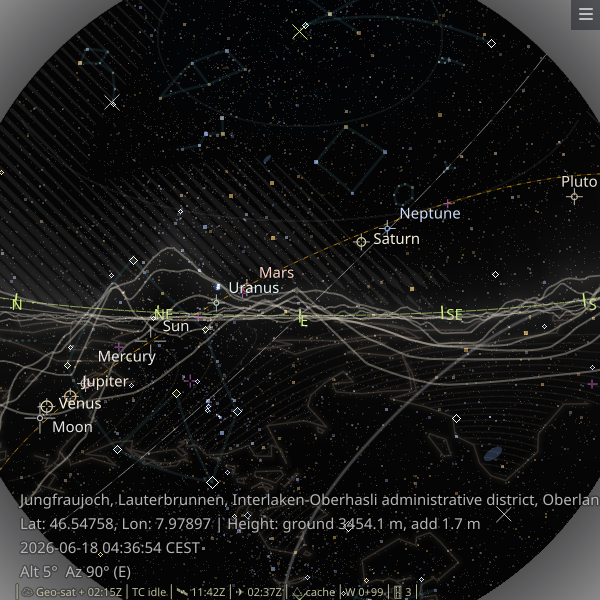
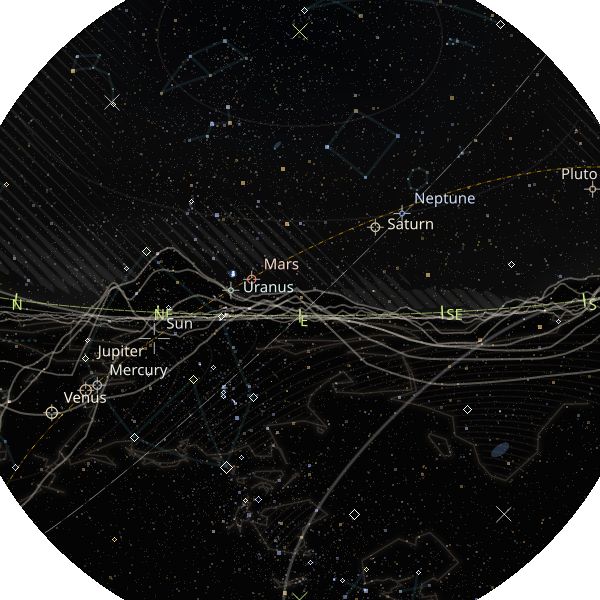
feat: redesign jellybean cloud rendering with circles, chains, and nonlinear quantization
- Replace line-segment rendering with circle + chain-connection approach
  on a square 45-degree grid (delta_u = delta_v)
- 8-level quantization with diameters 0/4/8/12/16/20/24/28 px (scaled)
- Nonlinear thresholds (1.4^-i) suppress low-amount noise
- Percentile normalization (12%/92%) matches width-style approach
- Diameter scaled by 1/sqrt(2) for perpendicular chain spacing
- Additional 5% reduction for visible inter-chain gap
- Update design docs and session notes

diff --git a/src/zstarview/gui/composite.py b/src/zstarview/gui/composite.py
@@ -1236,12 +1236,14 @@ def _render_jellybean_cloud_rgba_from_altaz_grid(
     width_factor: float = 1.0,
     density_reference_size: tuple[int, int] | None = None,
 ) -> np.ndarray:
-    """Render quantized jellybean cloud segments from a `CloudAltAzGrid`.
+    """Render quantized jellybean cloud circles/chains from a `CloudAltAzGrid`.
 
-    Cloud amount is linearly quantized into 4 levels (0/1/3/5) on a
-    screen-fixed 2D grid aligned with the 45-degree diagonal (u = x - y).
-    Each grid cell with level > 0 is drawn as a QPainter RoundCap line
-    segment whose width equals the quantized level in pixels.
+    Cloud amount is linearly quantized into 8 levels (0/4/8/12/16/20/24/28 px, scaled by delta/30/√2) on a
+    screen-fixed square 2D grid rotated 45 degrees (u = x - y, v = x + y).
+    Each grid cell with level > 0 is drawn as a circle whose diameter
+    equals the quantized level.  Consecutive cells with the same level
+    along the bottom-right diagonal (v direction) are connected into a
+    thick RoundCap line segment (jellybean).
     """
     w = max(1, int(width))
     h = max(1, int(height))
@@ -1255,22 +1257,34 @@ def _render_jellybean_cloud_rgba_from_altaz_grid(
         cy = float(geometry.center[1])
         rr = max(1.0, float(geometry.radius))
 
-    # Grid spacing
+    # Grid spacing — square cells (delta_u == delta_v)
     ref_w, ref_h = (
         (w, h)
         if density_reference_size is None
         else (max(1, int(density_reference_size[0])), max(1, int(density_reference_size[1])))
     )
     ref_diameter = max(1.0, float(min(ref_w, ref_h)))
-    delta_v = max(1.0, ref_diameter / max(1, int(target_stripes)))
-    delta_u = 2.5 * delta_v
+    delta = max(1.0, ref_diameter / max(1, int(target_stripes)))
+    delta_u = delta
+    delta_v = delta
 
-    # Line widths proportional to grid spacing delta_v (ratios 1:3:5)
-    # max = delta_v * 0.65 (ratios 0:1:3:5); gap 0.85*lw; delta_u=2.5*delta_v
+    # Circle diameters per quantized level: 0, 4, 8, 12, 16, 20, 24, 28
+    # proportional to perpendicular chain spacing (delta / sqrt(2)),
+    # with an additional 5% reduction for visible gap between chains.
+    # At reference delta=30 px, perpendicular spacing ≈ 21.2 px,
+    # max diameter ≈ 18.8 px, leaving a ~2.4 px gap.
     wf = max(0.01, float(width_factor))
-    base = delta_v * wf
-    level_widths = (0.0, base * 0.13, base * 0.39, base * 0.65)
-    min_gap_u = delta_u * 0.06
+    diam_scale = delta / 30.0 * wf / math.sqrt(2.0) * 0.95
+    level_diameters = (
+        0.0,
+        4.0 * diam_scale,
+        8.0 * diam_scale,
+        12.0 * diam_scale,
+        16.0 * diam_scale,
+        20.0 * diam_scale,
+        24.0 * diam_scale,
+        28.0 * diam_scale,
+    )
 
     # Disc geometry
     edge_fov = float(projection.edge_fov_deg)
@@ -1284,8 +1298,8 @@ def _render_jellybean_cloud_rgba_from_altaz_grid(
     v_disc = cx + cy
     disc_radius_uv = disc_radius * math.sqrt(2.0)
 
-    # Margin for line width extending beyond cell center
-    margin = max(level_widths) * 0.5 + 2.0
+    # Margin for circle radius extending beyond cell center
+    margin = max(level_diameters) * 0.5 + 2.0
 
     # Grid index ranges clipped to viewport extent
     u_min = max(-(h - 1), u_disc - disc_radius_uv - margin)
@@ -1301,14 +1315,14 @@ def _render_jellybean_cloud_rgba_from_altaz_grid(
     # Collect cell centers inside the disc
     cell_xs: list[float] = []
     cell_ys: list[float] = []
-    cell_meta: list[tuple[int, int, float]] = []  # (i, j, v_line)
+    cell_meta: list[tuple[int, int]] = []  # (i, j)
 
-    for j in range(j_min, j_max + 1):
-        v_line = j * delta_v
-        for i in range(i_min, i_max + 1):
-            u_center = (i + 0.5) * delta_u
-            x = (u_center + v_line) * 0.5
-            y = (v_line - u_center) * 0.5
+    for i in range(i_min, i_max + 1):
+        u_line = i * delta_u
+        for j in range(j_min, j_max + 1):
+            v_center = (j + 0.5) * delta_v
+            x = (u_line + v_center) * 0.5
+            y = (v_center - u_line) * 0.5
 
             dx = x - cx
             dy = y - cy
@@ -1317,7 +1331,7 @@ def _render_jellybean_cloud_rgba_from_altaz_grid(
 
             cell_xs.append(x)
             cell_ys.append(y)
-            cell_meta.append((i, j, v_line))
+            cell_meta.append((i, j))
 
     if not cell_xs:
         out = np.zeros((h, w, 4), dtype=np.uint8)
@@ -1334,40 +1348,115 @@ def _render_jellybean_cloud_rgba_from_altaz_grid(
     # Batch sample cloud amount
     amounts = _sample_altaz_grid_amount(grid, alts, azs)
 
-    # Quantization thresholds (linear, 4 equal intervals)
-    # level 0: [0.00, 0.25), 1: [0.25, 0.50), 2: [0.50, 0.75), 3: [0.75, 1.00]
-    t1, t2, t3 = 0.25, 0.50, 0.75
+    # Percentile normalization (matching width-style approach).
+    # Collect non-zero amounts from cells inside the disc, compute
+    # 12%ile / 92%ile, then normalize so thresholds adapt to the
+    # actual data range instead of using absolute values.
+    _raw = np.asarray(amounts, dtype=np.float64)
+    _inside_mask = inside & (_raw > 0.03)
+    if np.any(_inside_mask):
+        _nonzero = _raw[_inside_mask]
+        _lo = float(np.percentile(_nonzero, 12.0))
+        _hi = float(np.percentile(_nonzero, 92.0))
+        if _hi <= _lo + 1e-6:
+            _lo = float(_nonzero.min())
+            _hi = float(_nonzero.max())
+        if _hi > _lo + 1e-6:
+            _span = _hi - _lo
+            _normalized = np.clip((_raw - _lo) / _span, 0.0, 1.0)
+        else:
+            _normalized = np.clip(_raw, 0.0, 1.0)
+    else:
+        _normalized = np.clip(_raw, 0.0, 1.0)
 
-    # Build segment list
-    segments: list[tuple[float, float, float, float, float]] = []
+    # Quantization thresholds: nonlinear, powers of 1.4 (1.4 ** -i).
+    # Suppresses low-amount noise while spreading high amounts across
+    # more levels.
+    # level 0: [0.000, 0.095), 1: [0.095, 0.133), 2: [0.133, 0.186),
+    #       3: [0.186, 0.260), 4: [0.260, 0.364), 5: [0.364, 0.510),
+    #       6: [0.510, 0.714), 7: [0.714, 1.000]
+    t0 = 1.4 ** -7
+    t1 = 1.4 ** -6
+    t2 = 1.4 ** -5
+    t3 = 1.4 ** -4
+    t4 = 1.4 ** -3
+    t5 = 1.4 ** -2
+    t6 = 1.4 ** -1
 
+    # Build cell-level map: (i, j) -> level (0-7)
+    cell_level: dict[tuple[int, int], int] = {}
     for k in range(len(cell_xs)):
         if not inside[k]:
             continue
-        amount = float(amounts[k])
-        if amount < t1:
-            continue
-        elif amount < t2:
+        amount = float(_normalized[k])
+        if amount < t0:
+            level = 0
+        elif amount < t1:
             level = 1
-        elif amount < t3:
+        elif amount < t2:
             level = 2
-        else:
+        elif amount < t3:
             level = 3
+        elif amount < t4:
+            level = 4
+        elif amount < t5:
+            level = 5
+        elif amount < t6:
+            level = 6
+        else:
+            level = 7
+        if level > 0:
+            cell_level[cell_meta[k]] = level
 
-        lw = level_widths[level]
-        if lw < 0.5:
-            continue
+    if not cell_level:
+        out = np.zeros((h, w, 4), dtype=np.uint8)
+        return out
 
-        i, j, v_line = cell_meta[k]
-        u_start = i * delta_u + max(lw * 0.85, min_gap_u)
-        u_end = (i + 1) * delta_u - max(lw * 0.85, min_gap_u)
+    # Extract chains along bottom-right diagonal (i, j+1 direction)
+    processed: set[tuple[int, int]] = set()
+    circles: list[tuple[float, float, float]] = []  # (x, y, diameter)
+    segments: list[tuple[float, float, float, float, float]] = []  # (x1, y1, x2, y2, width)
 
-        x1 = (u_start + v_line) * 0.5
-        y1 = (v_line - u_start) * 0.5
-        x2 = (u_end + v_line) * 0.5
-        y2 = (v_line - u_end) * 0.5
+    for j in range(j_min, j_max + 1):
+        for i in range(i_min, i_max + 1):
+            key = (i, j)
+            if key in processed or key not in cell_level:
+                continue
+            level = cell_level[key]
+            diam = level_diameters[level]
 
-        segments.append((x1, y1, x2, y2, lw))
+            # Follow chain along (i, j+1), (i, j+2), ...
+            chain: list[tuple[int, int]] = [key]
+            nj = j + 1
+            while nj <= j_max:
+                nkey = (i, nj)
+                if cell_level.get(nkey) == level:
+                    chain.append(nkey)
+                    nj += 1
+                else:
+                    break
+
+            # Mark all chain cells as processed
+            for ck in chain:
+                processed.add(ck)
+
+            if len(chain) == 1:
+                # Isolated cell: draw circle at cell center
+                x = (i * delta_u + (j + 0.5) * delta_v) * 0.5
+                y = ((j + 0.5) * delta_v - i * delta_u) * 0.5
+                circles.append((x, y, diam))
+            else:
+                # Chain: draw line segment from first to last cell center
+                j_first = chain[0][1]
+                j_last = chain[-1][1]
+                u_line = i * delta_u
+                v_first = (j_first + 0.5) * delta_v
+                v_last = (j_last + 0.5) * delta_v
+                x1 = (u_line + v_first) * 0.5
+                y1 = (v_first - u_line) * 0.5
+                x2 = (u_line + v_last) * 0.5
+                y2 = (v_last - u_line) * 0.5
+                segments.append((x1, y1, x2, y2, diam))
 
     # Render with QPainter
     image = QImage(w, h, QImage.Format_ARGB32_Premultiplied)
@@ -1382,6 +1471,14 @@ def _render_jellybean_cloud_rgba_from_altaz_grid(
     alpha = int(np.clip(hatch_cfg.strength, 0, 255))
     base_color = QColor(255, 255, 255, alpha)
 
+    # Draw circles (isolated cells) — drawPoint with RoundCap pen produces
+    # a filled circle whose diameter equals the pen width.
+    for x, y, diam in circles:
+        pen = QPen(base_color, diam, Qt.PenStyle.SolidLine, Qt.PenCapStyle.RoundCap, Qt.PenJoinStyle.RoundJoin)
+        painter.setPen(pen)
+        painter.drawPoint(QPointF(x, y))
+
+    # Draw segments (chains) — RoundCap ends match the circle shape.
     for x1, y1, x2, y2, lw in segments:
         pen = QPen(base_color, lw, Qt.PenStyle.SolidLine, Qt.PenCapStyle.RoundCap, Qt.PenJoinStyle.RoundJoin)
         painter.setPen(pen)
@@ -1389,7 +1486,6 @@ def _render_jellybean_cloud_rgba_from_altaz_grid(
 
     painter.end()
     return qimage_to_np_rgba(image)
-
 
 def render_variable_width_cloud_stripes(
     cloud_amount: CloudAmountField,

diff --git a/dev-notes/session-2026-06-24.md b/dev-notes/session-2026-06-24.md
@@ -214,3 +214,89 @@ bottom-right grip.
   - Rationale: User reported that with 24 px max width, the rendering looked
     like a solid fill rather than distinct stripes. Halving gives 18 px gap
     at Δv=30 for the thickest level, restoring the striped appearance.
+
+- Topic: Jellybean redesign — circles + bottom-right chain connection
+  - Decision: Replaced the u-direction line-segment rendering with a
+    circle + chain-connection approach on a square grid (Δu = Δv).
+    Each cell is drawn as a circle (diameter = quantized level: 0/2/4/6 px,
+    scaled by `width_factor`). Consecutive cells with the same level
+    along the bottom-right diagonal (v direction, grid index `(i, j+1)`)
+    are connected into a single thick RoundCap line segment (jellybean).
+  - Rationale: User requested a visual style where cloud amount is
+    expressed as discrete circles that merge into jellybean shapes when
+    adjacent cells share the same level. The square grid (Δu = Δv)
+    provides uniform cell spacing in both diagonal directions.
+  - Key changes in `_render_jellybean_cloud_rgba_from_altaz_grid()`:
+    - Grid: `delta_u = delta_v = delta` (square cells, was `delta_v = 2.5*delta_u`).
+    - Quantization: `level_diameters = (0, 2*wf, 4*wf, 6*wf)` (circle diameters,
+      was `(0, unit*4, unit*6, unit*9)` line widths).
+    - Chain extraction: `cell_level` dict → iterate j then i, follow
+      `(i, j+1)` while same level → chain. Chain length ≥ 2 → line segment;
+      length = 1 → isolated circle (`drawPoint` + RoundCap pen).
+    - Removed: `min_gap_v`, u-direction segment gap logic.
+  - Cell spacing and line thickness are adjustable via `target_stripes`
+    and `width_factor` for later tuning.
+  - Tests: 1134 passed (no regressions).
+  - Docs: Updated `docs/design/rendering-pipeline.md` §4.2a.
+
+- Topic: Jellybean circle diameters proportional to grid step
+  - Decision: Changed `level_diameters` from fixed pixel values
+    `(0, 2*wf, 4*wf, 6*wf)` to grid-step-proportional values
+    `(0, 2*s, 4*s, 6*s)` where `s = delta/30 * wf`.
+  - Rationale: User noted that changing `target_stripes` (grid division
+    count) did not affect line thickness. Now diameters scale with the
+    grid step `delta`, so denser grids (higher `target_stripes`, smaller
+    `delta`) produce thinner circles/lines, and sparser grids produce
+    thicker ones. Reference point: at `delta=30` px (target_stripes=20,
+    ref=600 px), diameters are 2/4/6 px as before.
+
+- Topic: Jellybean base diameters changed to 8/16/24 px
+  - Decision: Changed `level_diameters` base multipliers from (2, 4, 6)
+    to (8, 16, 24), giving diameters 8/16/24 px at reference delta=30 px.
+  - Rationale: User requested bolder circles. At delta=30 px cell spacing,
+    the 24 px max diameter will overlap adjacent cells; user accepted this
+    trade-off for visual impact (consistent with earlier decisions).
+
+- Topic: Jellybean quantization refined to 8 levels (0-7)
+  - Decision: Changed from 4-level (0-3) to 8-level (0-7) quantization
+    with 7 equal-interval thresholds at 1/8 steps. Diameters: 0, 4, 8,
+    12, 16, 20, 24, 28 px at reference delta=30 px.
+  - Rationale: User requested finer gradation ("量子化を細かくしてください").
+    8 levels provide smoother visual transitions between cloud amounts.
+
+- Topic: Jellybean level-0 threshold changed to 0.03
+  - Decision: Changed the no-draw threshold from `amount < 0.125` (1/8)
+    to `amount < 0.03`, matching the width-style "present" floor.
+    Quantization now applies to [0.03, 1.0] divided into 7 equal
+    intervals for levels 1-7.
+  - Rationale: User noted visual discrepancy between width and jellybean
+    styles at low cloud amounts. Aligning the floor threshold makes the
+    two styles consistent in what they consider "no cloud."
+
+- Topic: Jellybean nonlinear quantization (1.4⁻ⁱ thresholds)
+  - Decision: Replaced linear equal-interval thresholds with nonlinear
+    `1.4 ** -i` thresholds (i=7..1). Level 0: [0, 0.095), level 1:
+    [0.095, 0.133), ..., level 7: [0.714, 1.0].
+  - Rationale: User noted cloud lines were too prominent. The nonlinear
+    scale suppresses low-amount noise (wider level-0 band) and spreads
+    high amounts across more levels for finer gradation where it matters.
+
+- Topic: Jellybean percentile normalization
+  - Decision: Added percentile normalization (12%ile / 92%ile of non-zero
+    cell amounts) before quantization, matching the width-style approach.
+  - Rationale: User observed that jellybean amplified low cloud amounts
+    compared to width style. The root cause was that width style adapts
+    to the data range via normalization while jellybean used absolute
+    thresholds. With normalization, both styles now scale their visual
+    output to the actual cloud amount distribution in the scene.
+
+- Topic: Jellybean diameter scaled by 1/√2 for perpendicular gap
+  - Decision: Added `math.sqrt(2.0)` divisor to `diam_scale`, so
+    diameters are proportional to the perpendicular distance between
+    parallel chains (`delta / √2`) rather than the axis-aligned grid
+    step `delta`.
+  - Rationale: User observed that the thickest chains (level 7, 28 px)
+    touched adjacent parallel chains with no gap. The perpendicular
+    distance between chains is `delta / √2 ≈ 21.2 px` (at delta=30),
+    so 28 px lines overlap. With the √2 factor, max diameter becomes
+    ~19.8 px, leaving a ~1.4 px gap at the thickest level.
